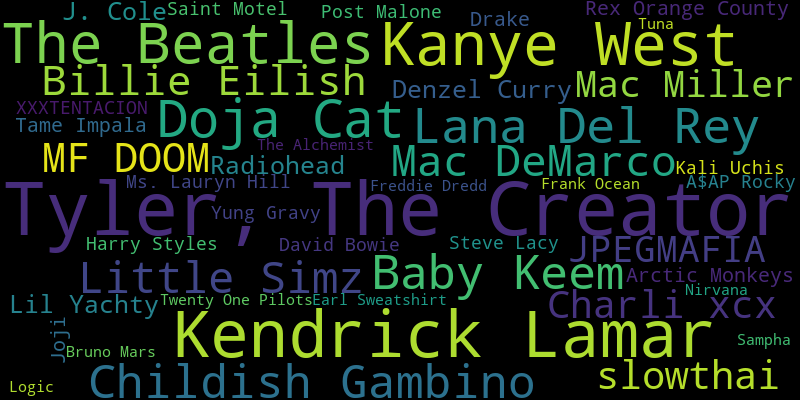
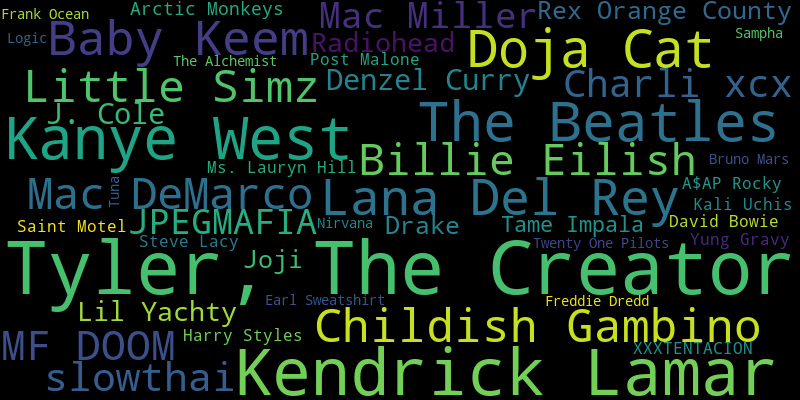
feat: :sparkles: Dynamic Sizing for top Artists Wordcloud

diff --git a/WordCloud/top_artists_wordcloud.py b/WordCloud/top_artists_wordcloud.py
@@ -26,6 +26,7 @@ sp = spotipy.Spotify(auth_manager=SpotifyOAuth(client_id=client_id,
 class TopArtistWordCloudInput(BaseModel):
     number_of_artists: int = Field(default=20, ge=10, se=50)
     term: str = Field(pattern="^(short_term|medium_term|long_term)$")
+    size_by: str = Field(default="favorite", pattern="^(popularity|followers_count|favorite)$")
 
 
 def generate_simple_top_artist_wordcloud(input: TopArtistWordCloudInput):
@@ -48,8 +49,16 @@ def generate_simple_top_artist_wordcloud(input: TopArtistWordCloudInput):
     }
     for idx, artist in enumerate(top_artists["items"], start=1)
 ]
-    # Generate the word frequencies
-    word_frequencies = {entry["artist"]: 1 / entry["place"] for entry in top_artists_info_list}
+    
+    # Generate the word frequencies based on the selected size_by parameter
+    match input.size_by:
+        case "popularity":
+            word_frequencies = {entry["artist"]: entry["popularity"] for entry in top_artists_info_list}
+        case "followers_count":
+            word_frequencies = {entry["artist"]: entry["followers_count"] for entry in top_artists_info_list}
+        case "favorite":
+            word_frequencies = {entry["artist"]: 1 / entry["place"] for entry in top_artists_info_list}
+
 
     # Generate the word cloud
     wordcloud = WordCloud(
@@ -70,5 +79,5 @@ def generate_simple_top_artist_wordcloud(input: TopArtistWordCloudInput):
 
 if __name__ == "__main__":
 
-    input_data = TopArtistWordCloudInput(number_of_artists=45, term="long_term")
+    input_data = TopArtistWordCloudInput(number_of_artists=45, term="long_term", size_by="favorite")
     generate_simple_top_artist_wordcloud(input_data)
